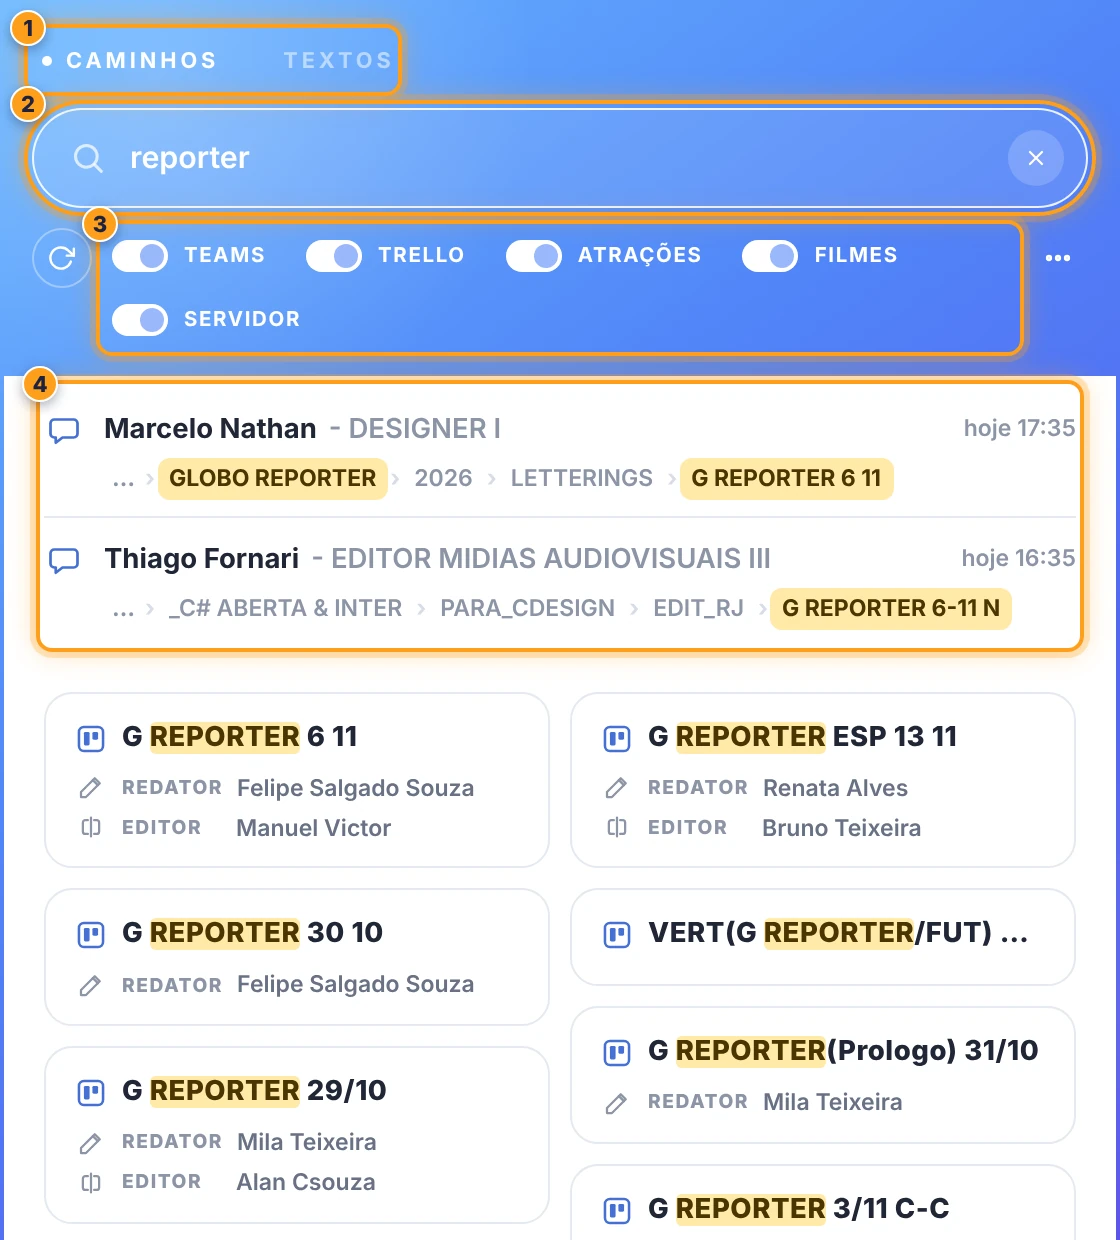
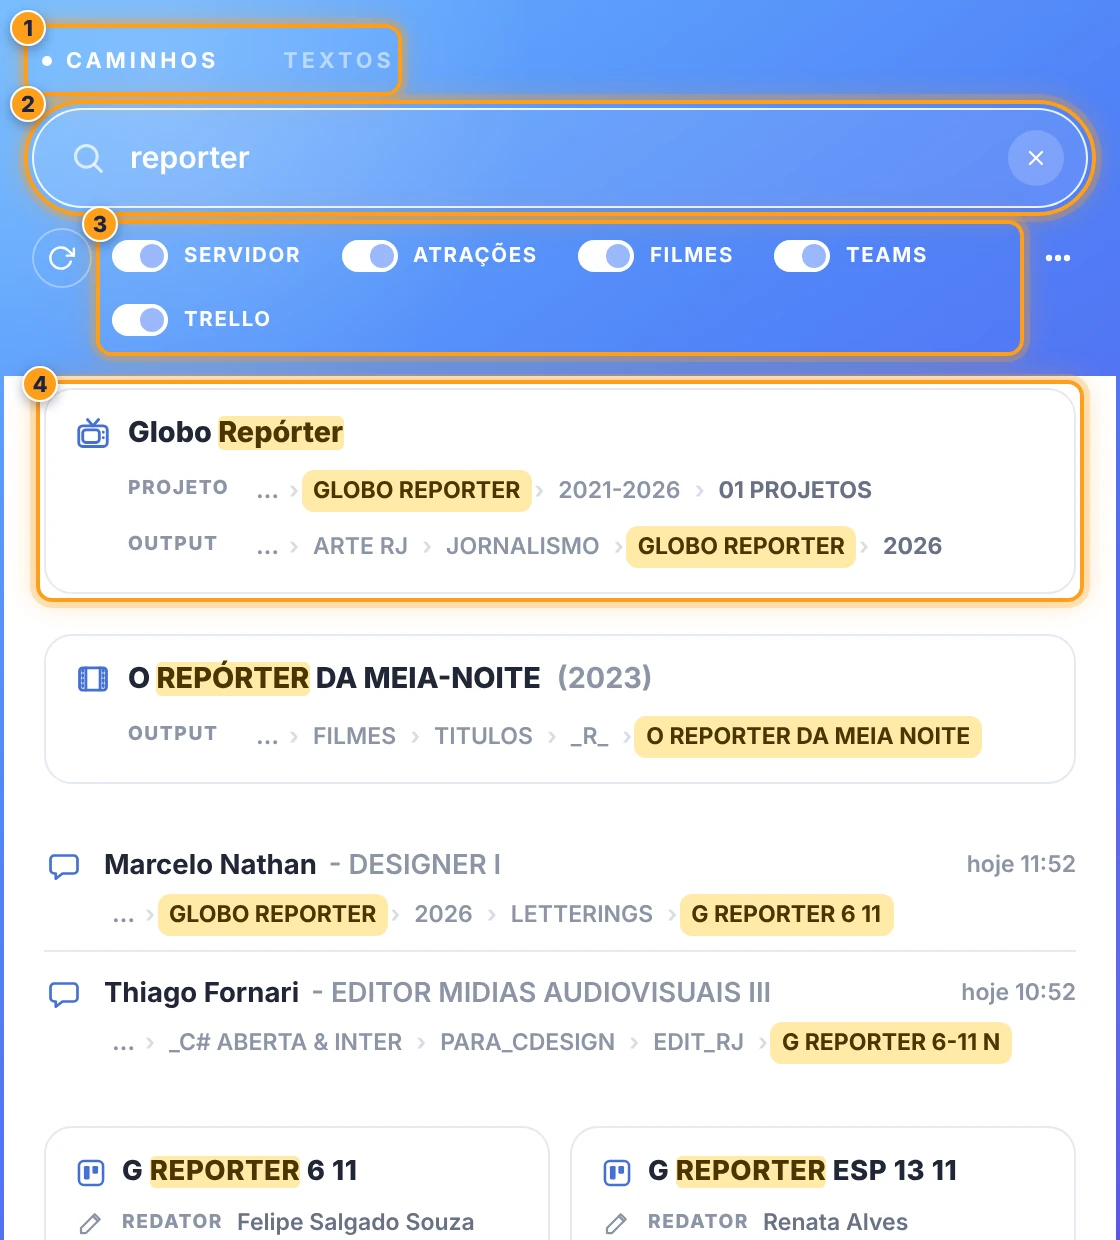
Acessorista: categorias na ordem servidor, atrações, filmes, Teams, Trello
A ordem dos interruptores e dos resultados vem de V2_CATS (finder.js); o
índice só entrega os itens. Documentação e imagens do acessorista na ordem
nova.

Claude-Session: https://claude.ai/code/session_01DrYHfUyMEmqYvcFyKefNe2

diff --git a/extension/client/js/finder.js b/extension/client/js/finder.js
@@ -318,11 +318,11 @@ caracteres e abertura das pastas. Aba TEXTOS: lê os textos dos layers de texto 
 
 	// as categorias da busca (a ordem é a dos resultados)
 	var V2_CATS = [
-		{ key: 'teams', label: 'TEAMS', max: 20 },
-		{ key: 'trello', label: 'TRELLO', max: 24 },
+		{ key: 'servidor', label: 'SERVIDOR', max: 10 },
 		{ key: 'atracoes', label: 'ATRAÇÕES', max: 20 },
 		{ key: 'filmes', label: 'FILMES', max: 20 },
-		{ key: 'servidor', label: 'SERVIDOR', max: 10 }
+		{ key: 'teams', label: 'TEAMS', max: 20 },
+		{ key: 'trello', label: 'TRELLO', max: 24 }
 	];
 	// índice local (configuração > buscar, neste computador): as pastas deste computador e o servidor
 	var LOCAL_CATS = [
@@ -535,7 +535,7 @@ caracteres e abertura das pastas. Aba TEXTOS: lê os textos dos layers de texto 
 		$('opts-paths').textContent = text || '';
 	}
 
-	// Webhook: um interruptor por categoria que tem itens (TEAMS, TRELLO, ATRAÇÕES, FILMES, SERVIDOR). a escolha
+	// Webhook: um interruptor por categoria que tem itens (SERVIDOR, ATRAÇÕES, FILMES, TEAMS, TRELLO). a escolha
 	// fica ao atualizar o índice. no índice local não há interruptores: no lugar, de onde vêm os caminhos.
 	function buildCategoryFilters() {
 		var box = $('opts-paths');

diff --git a/docs/acessorista.md b/docs/acessorista.md
@@ -14,7 +14,7 @@ a janela abre com 720 px de largura e baixa: sem uma busca, ela mostra só o cab
 | :---: | --- | --- |
 | ❶ | **abas** | **caminhos** e **textos** (o mesmo painel). |
 | ❷ | **busca** | atração, claquete, quem mandou, projeto, output ou caminho (a partir de 2 caracteres). |
-| ❸ | **fontes da busca** | liga e desliga cada uma: Teams, Trello, atrações, filmes e servidor. a seta relê o índice. |
+| ❸ | **fontes da busca** | liga e desliga cada uma: servidor, atrações, filmes, Teams e Trello. a seta relê o índice. |
 | ❹ | **resultados** | o ícone diz de onde vem; o trecho achado fica marcado. clique para abrir a pasta. |
 
 
@@ -24,15 +24,15 @@ os resultados vêm sem títulos de seção: o ícone de cada item diz de onde el
 
 | ícone | de onde | o que mostra | o clique |
 | --- | --- | --- | --- |
-| balão | **Teams** (últimos 30 dias) | quem mandou - cargo, quando (hoje, ontem, o dia da semana até 6 dias atrás ou a data, com a hora) e, embaixo, o caminho da mensagem | o balão abre a mensagem no Teams |
-| quadro do Trello | **Trello** (últimos 15 dias) | cards em grade: a claquete, o redator e o editor | o card abre no Trello |
+| servidor | **servidor** (caminhos fixos) | o nome e a linha **CAMINHO** | — |
 | TV de tubo | **atrações** | o nome e as linhas **PROJETO** e **OUTPUT** | — |
 | película | **filmes** | o título, o ano de produção entre parênteses e a linha **OUTPUT** | — |
-| servidor | **servidor** (caminhos fixos) | o nome e a linha **CAMINHO** | — |
+| balão | **Teams** (últimos 30 dias) | quem mandou - cargo, quando (hoje, ontem, o dia da semana até 6 dias atrás ou a data, com a hora) e, embaixo, o caminho da mensagem | o balão abre a mensagem no Teams |
+| quadro do Trello | **Trello** (últimos 15 dias) | cards em grade: a claquete, o redator e o editor | o card abre no Trello |
 
 - **como a busca compara** → sem acentos, maiúsculas e pontuação, sempre a partir do começo de uma palavra: '*não*' acha '*NAO APAGAR*', mas não '*an**NA - O***'; '*3/11*' acha '*3/11*' e '*3 11*', mas não '*31/10*'.
 - **apelidos das atrações** → quando o que você digita é o começo do nome ou de um *pattern* de uma atração (com 3 letras ou mais), a busca também procura os outros nomes dela: '*GREP*' ou '*G REP*' trazem também o que tem **GLOBO REPORTER** e **G REPORTER** (mensagens, cards, pastas). em cima dos resultados aparece '*também: Globo Repórter*'.
-- **interruptores** (ao lado do atualizar) → **TEAMS**, **TRELLO**, **ATRAÇÕES**, **FILMES** e **SERVIDOR**: desligado, a categoria sai da busca (só aparecem as que têm itens). a escolha fica ao atualizar. no índice local não há interruptores: no lugar, de onde vêm os caminhos.
+- **interruptores** (ao lado do atualizar) → **SERVIDOR**, **ATRAÇÕES**, **FILMES**, **TEAMS** e **TRELLO** (a mesma ordem dos resultados): desligado, a categoria sai da busca (só aparecem as que têm itens). a escolha fica ao atualizar. no índice local não há interruptores: no lugar, de onde vêm os caminhos.
 - **⋯** → ajuda (esta página) e recarregar o painel.
 - **caminho** → aparece em breadcrumb: clique em qualquer pasta para abri-la. a pasta que contém o termo buscado fica destacada em amarelo. quando o caminho não cabe, as pastas iniciais saem (com '*…*'); a última e a destacada ficam sempre.
 - **atualizar** (o botão redondo, abaixo da busca) → baixa os caminhos de novo (no índice local, indexa as pastas de novo). ao lado dele aparece de onde vêm os caminhos no índice local ('*índice local · 18.430 itens · hoje 09:12*') ou o andamento da indexação.
